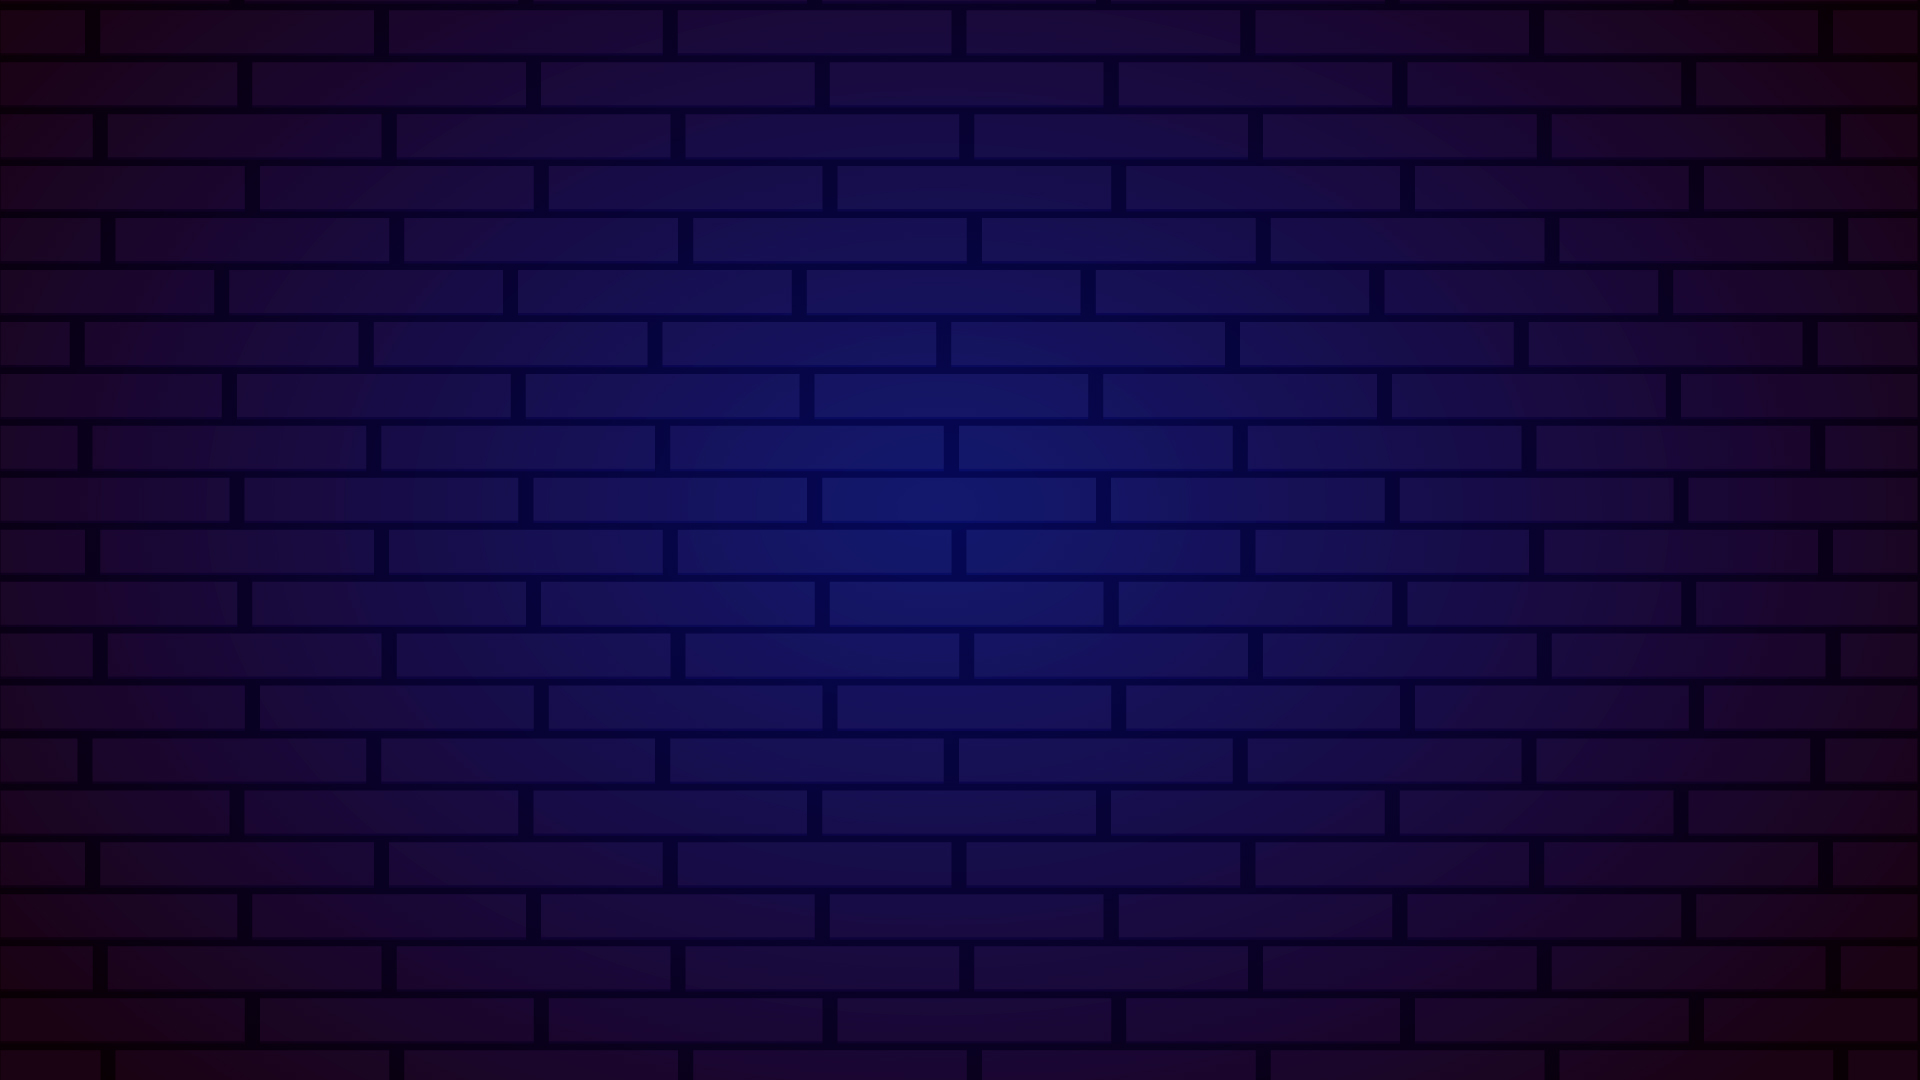
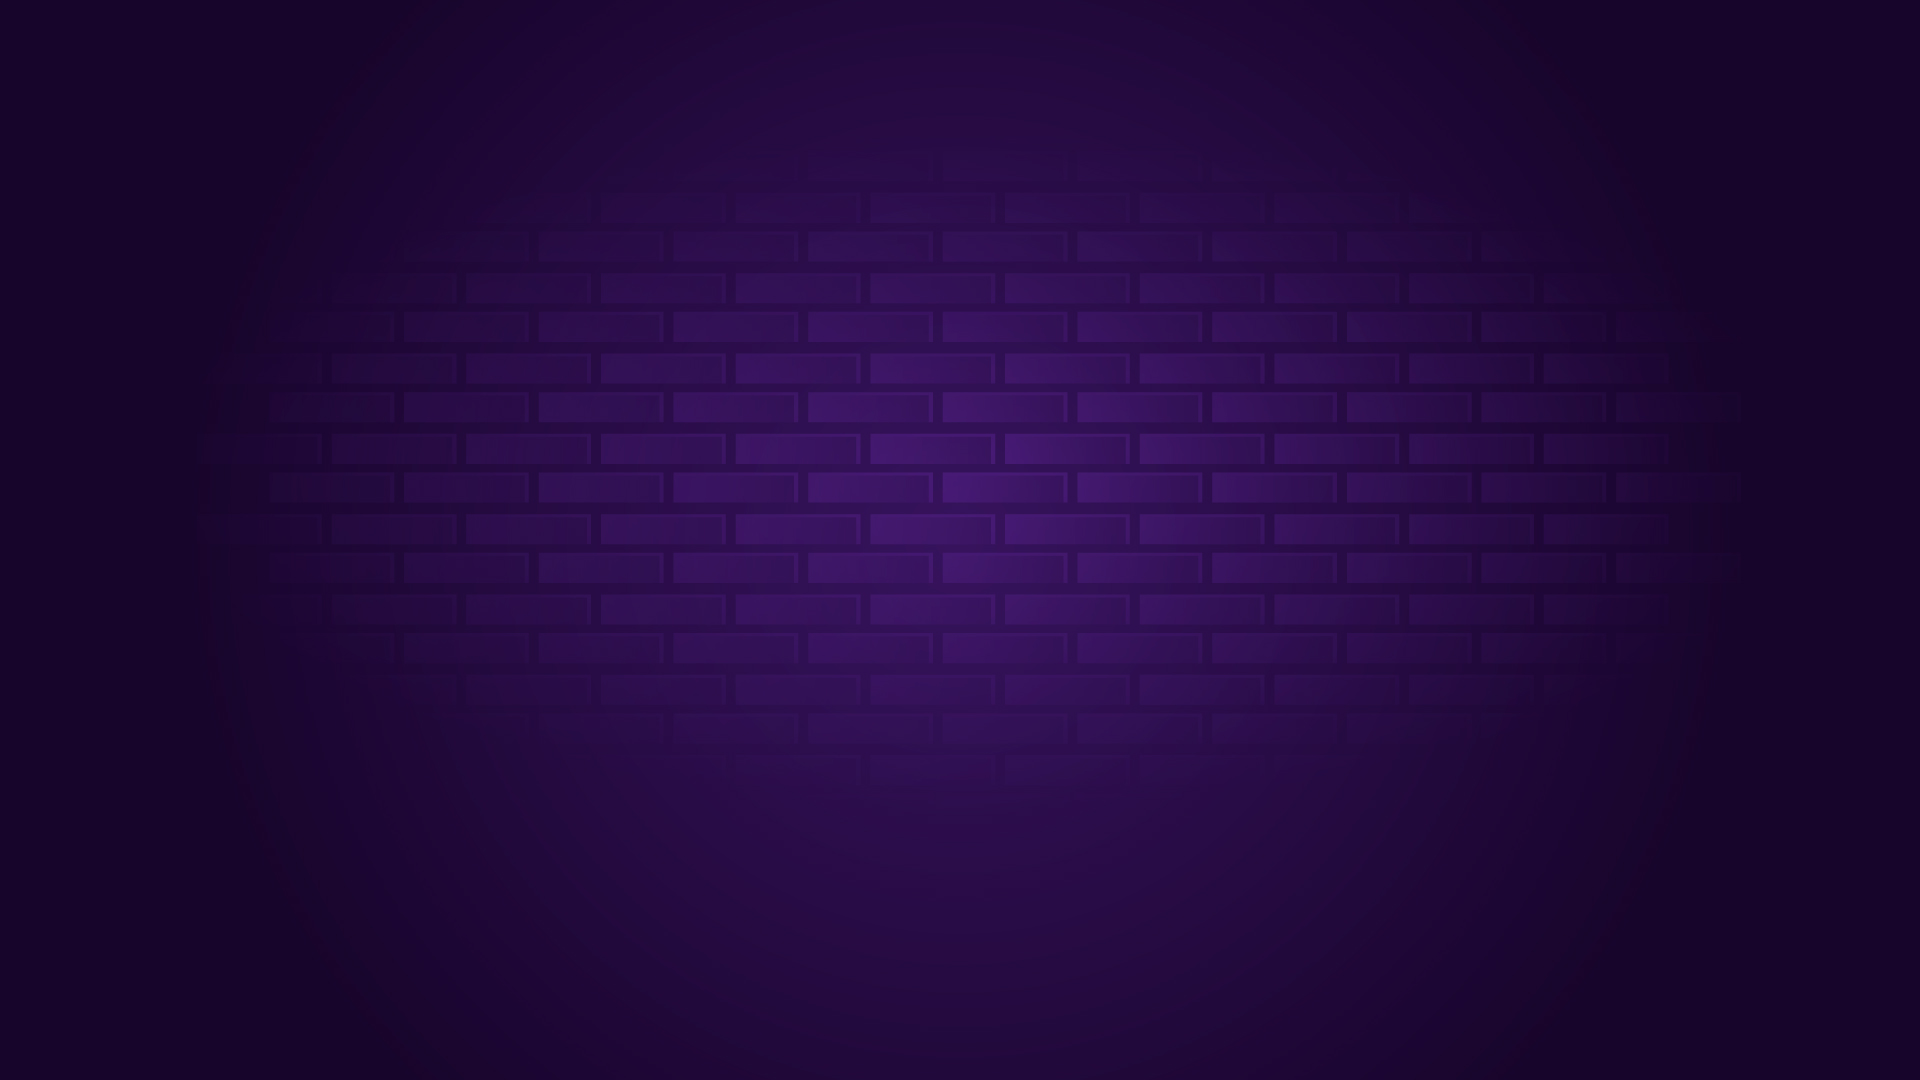
Home page design

diff --git a/src/app/home/home.html b/src/app/home/home.html
@@ -1,152 +1,16 @@
-<div class="flex flex-col justify-center items-center gap-12 w-full min-h-screen px-4 py-8">
-  
-  <!-- Título con efecto neón -->
-  <h1 class="text-center">
-    <div class="neon-text text-4xl md:text-6xl font-black uppercase tracking-wider mb-2">
-      Bienvenido al
-    </div>
-    <div class="neon-subtitle text-4xl md:text-6xl font-black uppercase tracking-wider">
-      Universo de Diversión
-    </div>
-  </h1>
-  
-  <!-- Logo con efecto flotante -->
-  <div class="relative w-64 h-64 md:w-80 md:h-80 flex justify-center items-center">
-    <div class="absolute inset-0 rounded-full bg-gradient-radial from-purple-500/20 to-transparent animate-logo-pulse"></div>
-    <img 
-      src="/icons/logo.png" 
-      alt="Logo" 
-      class="relative z-10 w-full h-full object-contain animate-float filter drop-shadow-logo"
-    />
-  </div>
-  
-  <!-- Botón de Jugar -->
-  <button
-    routerLink="/game"
-    class="
-      relative px-8 py-4 md:px-12 md:py-6
-      text-xl md:text-2xl font-black uppercase tracking-[0.3em]
-      text-white
-      bg-gradient-to-red from-indigo-500 to-purple-600
-      border-4 border-black
-      rounded-xl
-      shadow-[0_6px_0_#000,0_0_20px_rgba(99,102,241,0.6)]
-      transition-all duration-150
-      hover:translate-y-0.5
-      hover:shadow-[0_4px_0_#000,0_0_30px_rgba(139,92,246,0.8)]
-      active:translate-y-1
-      active:shadow-[0_2px_0_#000,0_0_30px_rgba(139,92,246,0.8)]
-      cursor-pointer
-    "
-  >
-    <span class="inline-block animate-pulse-icon mr-2">▶</span> JUGAR
-  </button>
-  
+<div class="relative w-screen h-screen">
+  <!-- Fondo / imagen principal -->
+  <img
+    src="/icons/logo.png"
+    class="w-full h-full object-cover"
+    alt="Fondo"
+  />
+
+  <!-- Botón Jugar -->
+  <img
+  routerLink="/game"
+  src="/icons/btn-jugar.png"
+  alt="Jugar"
+  class="absolute bottom-110 left-140 -translate-x-1/2 w-62 cursor-pointer animate-idle"/>
+
 </div>
-
-<style>
-  /* Efecto neón para el texto principal */
-  .neon-text {
-    color: #e0e7ff;
-    text-shadow:
-      0 0 5px rgba(224, 231, 255, 0.8),
-      0 0 10px rgba(165, 180, 252, 0.6),
-      0 0 20px rgba(99, 102, 241, 0.5),
-      0 0 30px rgba(99, 102, 241, 0.4);
-    animation: neon-flicker 1.5s infinite alternate;
-  }
-
-  @keyframes neon-flicker {
-    0%, 19%, 21%, 23%, 25%, 54%, 56%, 100% {
-      text-shadow:
-        0 0 5px rgba(224, 231, 255, 0.8),
-        0 0 10px rgba(165, 180, 252, 0.6),
-        0 0 20px rgba(99, 102, 241, 0.5),
-        0 0 30px rgba(99, 102, 241, 0.4);
-    }
-    20%, 24%, 55% {
-      text-shadow:
-        0 0 3px rgba(224, 231, 255, 0.6),
-        0 0 8px rgba(165, 180, 252, 0.4),
-        0 0 15px rgba(99, 102, 241, 0.3),
-        0 0 20px rgba(99, 102, 241, 0.2);
-    }
-  }
-
-  /* Efecto neón para el subtítulo */
-  .neon-subtitle {
-    color: #ddd6fe;
-    text-shadow:
-      0 0 5px rgba(221, 214, 254, 0.8),
-      0 0 10px rgba(196, 181, 253, 0.6),
-      0 0 20px rgba(139, 92, 246, 0.5),
-      0 0 30px rgba(139, 92, 246, 0.4);
-    animation: neon-glow 2s ease-in-out infinite alternate;
-  }
-
-  @keyframes neon-glow {
-    from {
-      text-shadow:
-        0 0 5px rgba(221, 214, 254, 0.8),
-        0 0 10px rgba(196, 181, 253, 0.6),
-        0 0 20px rgba(139, 92, 246, 0.5),
-        0 0 30px rgba(139, 92, 246, 0.4);
-    }
-    to {
-      text-shadow:
-        0 0 8px rgba(221, 214, 254, 0.9),
-        0 0 15px rgba(196, 181, 253, 0.7),
-        0 0 25px rgba(139, 92, 246, 0.6),
-        0 0 35px rgba(139, 92, 246, 0.5);
-    }
-  }
-
-  /* Animación de flotación para el logo */
-  @keyframes float {
-    0%, 100% {
-      transform: translateY(0px);
-    }
-    50% {
-      transform: translateY(-20px);
-    }
-  }
-
-  .animate-float {
-    animation: float 3s ease-in-out infinite;
-  }
-
-  /* Pulso del resplandor del logo */
-  @keyframes logo-pulse {
-    0%, 100% {
-      transform: scale(1);
-      opacity: 0.5;
-    }
-    50% {
-      transform: scale(1.1);
-      opacity: 0.8;
-    }
-  }
-
-  .animate-logo-pulse {
-    animation: logo-pulse 3s ease-in-out infinite;
-  }
-
-  /* Drop shadow personalizado para el logo */
-  .drop-shadow-logo {
-    filter: drop-shadow(0 0 15px rgba(99, 102, 241, 0.5));
-  }
-
-  /* Animación del ícono de play */
-  @keyframes pulse-icon {
-    0%, 100% {
-      transform: scale(1);
-    }
-    50% {
-      transform: scale(1.2);
-    }
-  }
-
-  .animate-pulse-icon {
-    animation: pulse-icon 2s ease-in-out infinite;
-  }
-</style>

diff --git a/src/app/bowling-scorer/bowling-scorer.ts b/src/app/bowling-scorer/bowling-scorer.ts
@@ -2,6 +2,7 @@
 import { Component, OnInit, OnDestroy, HostListener } from '@angular/core';
 import { CommonModule } from '@angular/common';
 import { FormsModule } from '@angular/forms';
+import { RouterLink } from '@angular/router';
 
 interface Frame {
   rolls: (number | null)[];
@@ -15,9 +16,9 @@ interface Player {
 @Component({
   selector: 'app-bowling-scorer',
   standalone: true,
-  imports: [CommonModule, FormsModule],
+  imports: [CommonModule, FormsModule, RouterLink],
   template: `
-      <div class="max-w-[95%] mx-auto">
+      <div class="max-w-[95%] m-auto ">
         <div class="bg-white/10 backdrop-blur-lg rounded-2xl shadow-2xl p-8 border border-white/20">
           <div class="flex justify-between items-center mb-8">
             <h1 class="text-4xl font-bold text-white flex items-center gap-3">
@@ -214,6 +215,7 @@ interface Player {
             <div class="flex gap-4 justify-center">
               <button 
                 (click)="resetGame()"
+                routerLink=""
                 class="bg-white text-orange-600 hover:bg-orange-50 font-bold text-xl px-8 py-4 rounded-xl transition transform hover:scale-105 shadow-lg flex items-center gap-2">
                 <svg class="w-6 h-6" fill="none" stroke="currentColor" viewBox="0 0 24 24">
                   <polyline points="1 4 1 10 7 10"></polyline>

diff --git a/src/app/app.html b/src/app/app.html
@@ -1,8 +1,3 @@
-<div class="flex h-screen w-screen overflow-hidden bg-[url(/images/default-background.jpg)] items-center background">
-  <!-- Contenido principal -->
-  <div class="flex flex-1 p-5 overflow-auto h-screen w-full justify-center items-center">
-    <div class="w-full max-w-[95%]">
-      <router-outlet></router-outlet>
-    </div>
-  </div>
+<div class="h-screen w-screen overflow-hidden bg-[url(/images/default-background.jpg)] bg-cover bg-center">
+  <router-outlet></router-outlet>
 </div>

diff --git a/src/app/home/home.css b/src/app/home/home.css
@@ -3,3 +3,17 @@
   font-weight: 400;
   font-style: normal;
 }
+
+
+@keyframes idle {
+  0%, 100% {
+    transform: translateX(-50%) translateY(0) scale(1);
+  }
+  50% {
+    transform: translateX(-50%) translateY(-18px) scale(1.05);
+  }
+}
+
+.animate-idle {
+  animation: idle 3.2s ease-in-out infinite;
+}
